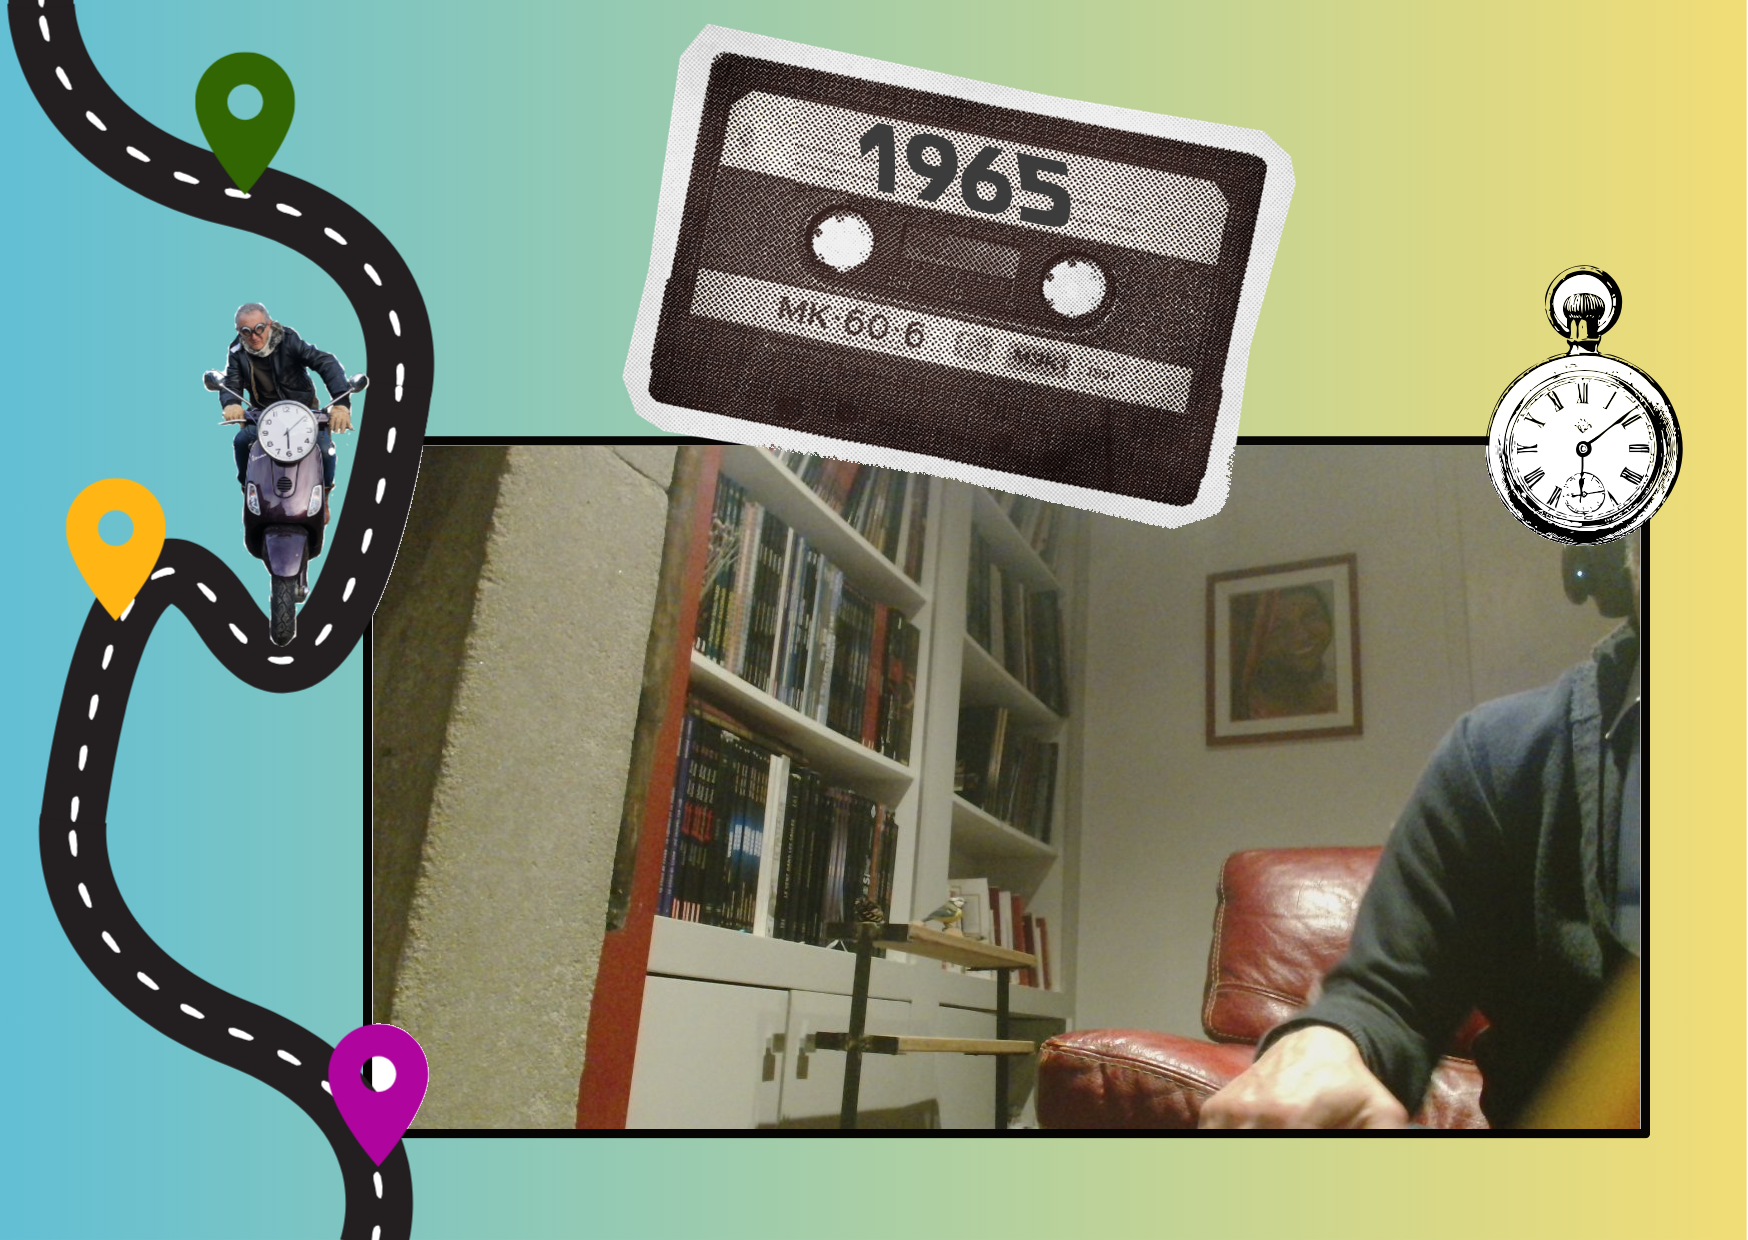
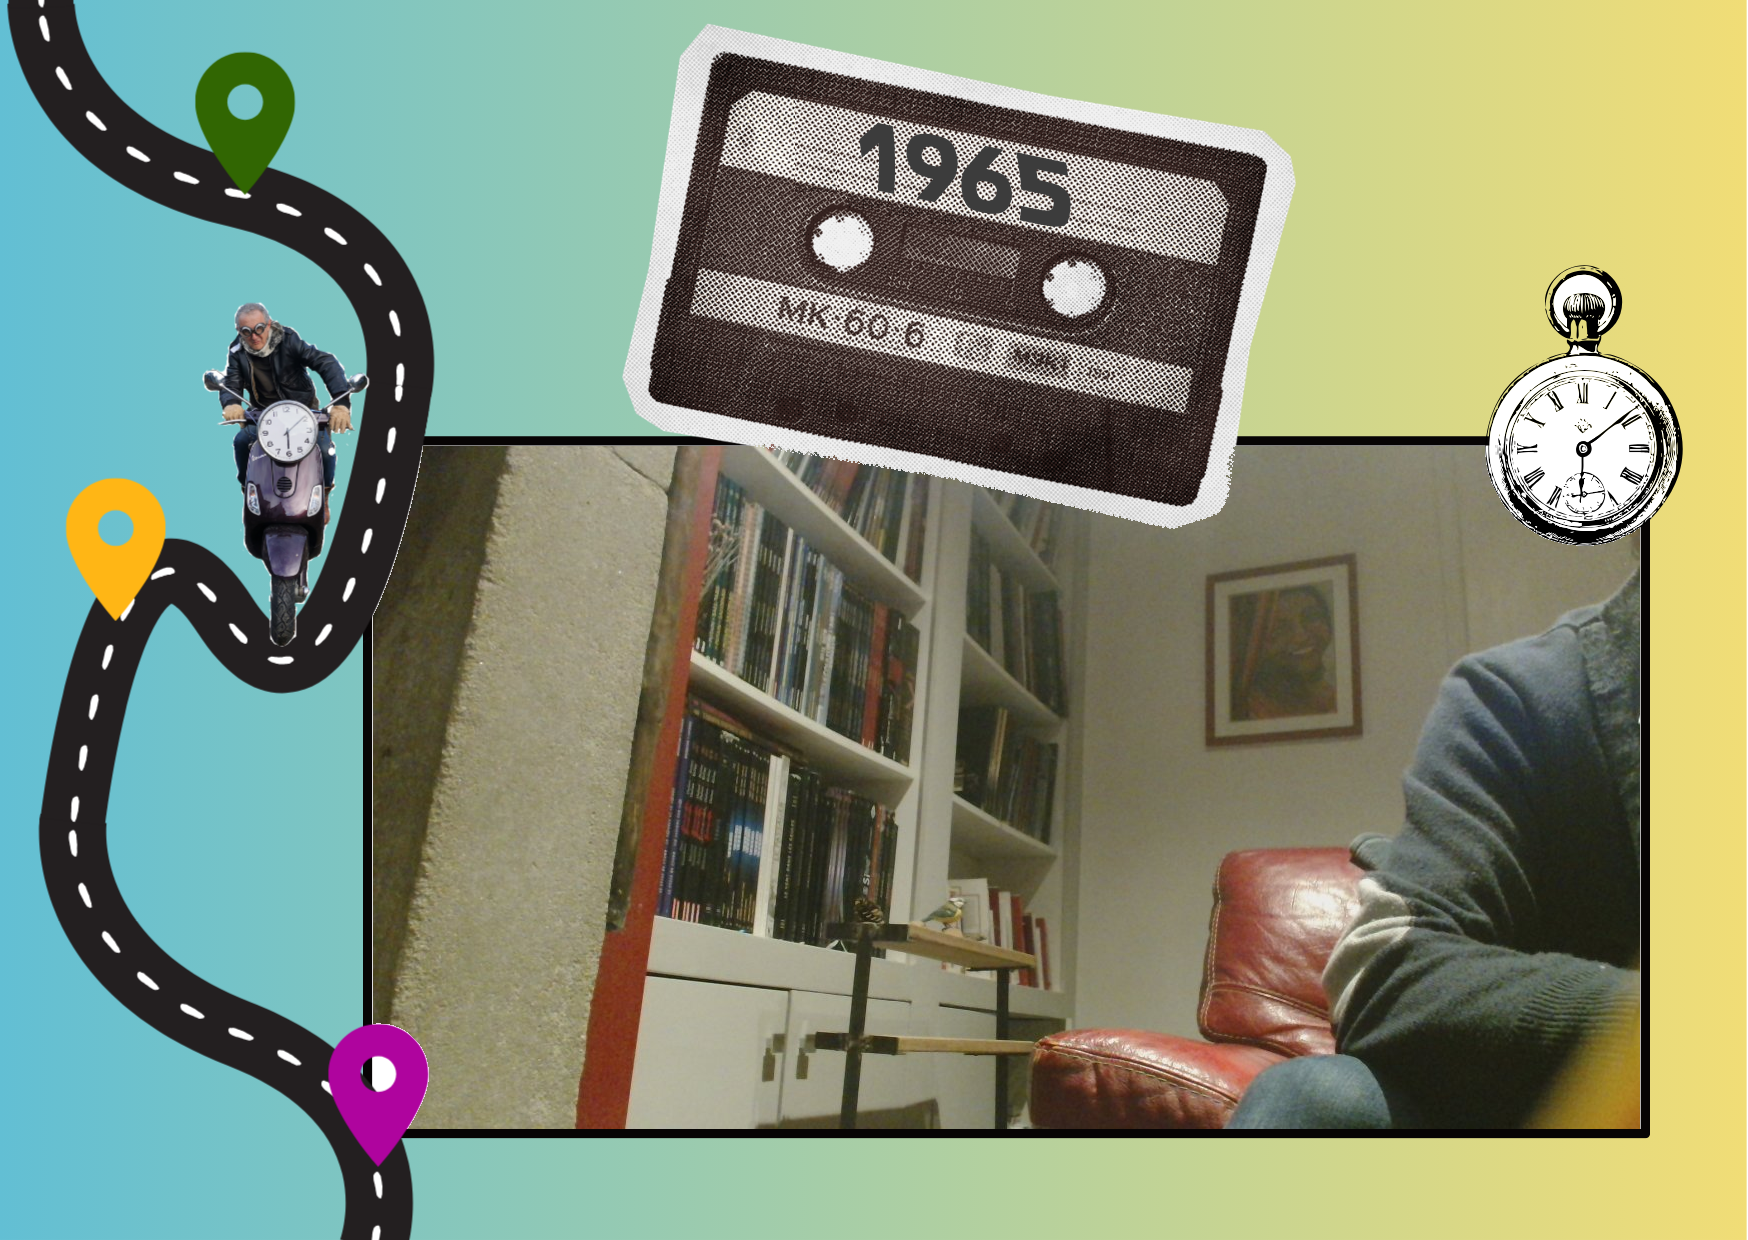
photo

Changed region(s): [[0.587, 0.429, 0.9577, 0.9194]]

diff --git a/main.py b/main.py
@@ -152,11 +152,29 @@ actionQuiz=[[0,0,0,0,-1,None,False,"QUIZ de Garde 1.jpg",False,None, None, "Appu
             [2,0,2,2,5,None,False,"masque.jpg",False,None, None, None],  # seq 3 - reponse OK
             [3,1,2,2,5,None,False,"masque.jpg",False,None, None, None],  # seq 4 - reponse KO
             [4,0,2,2,-1,None,False,"score.jpg",False,None, None, None],  # seq 5 - score
-            [0,0,0,0,-1,None,False,"vide.jpg",False,None, None, "Fin du quiz"],  # seq 6 - fin
+            [0,0,0,0,-1,None,False,"vide.jpg",False,None, None, "Fin du quiz"]]  # seq 6 - fin
 
 equipes=["1965","1976","1981","1998","2000","2011"]
 
 scoreEquipe=[0,0,0,0,0,0]
+
+def photo(noEquipe):
+    image1 = cam1.get_image()
+    pygame.image.save(image1, "./images/photo_" + equipes[noEquipe] + ".jpg")
+    # compose le résultat
+    background = Image.open('./images/fond.jpg').convert('RGBA')
+    masque = Image.open('./images/masquePhoto.png').convert('RGBA')
+    annee = Image.open('./images/' + equipes[noEquipe] + '.png').convert('RGBA')
+    photo = Image.open('./images/photo_' + equipes[noEquipe] + '.jpg')
+
+    background.paste(photo,(362,441))
+    background.alpha_composite(masque)
+    background.alpha_composite(annee,(850,120))
+    background.save("./images/impression.png")
+    background.save("./images/impression_" + equipes[noEquipe] + ".png")
+
+
+
 
 class Sequence():
     no=0
@@ -226,21 +244,7 @@ class Sequence():
         self.texte = actionSequence[self.no][9]
         # actions spécifiques
         if self.no==7 and isCamera1:  # prise des photos
-            image1 = cam1.get_image()
-            pygame.image.save(image1, "./images/photo_" + equipes[self.noEquipe] + ".jpg")
-            # compose le résultat
-            background = Image.open('./images/fond.jpg').convert('RGBA')
-            masque = Image.open('./images/masquePhoto.png').convert('RGBA')
-            annee = Image.open('./images/' + equipes[self.noEquipe] + '.png').convert('RGBA')
-            photo = Image.open('./images/photo_' + equipes[self.noEquipe] + '.jpg')
-
-            background.paste(photo,(362,441))
-            background.alpha_composite(masque)
-            background.alpha_composite(annee,(850,120))
-            background.save("./images/impression.png")
-            background.save("./images/impression_" + equipes[self.noEquipe] + ".png")
-
-
+            photo(self.noEquipe)
 
         if self.no==7 and isCamera2:  # prise des photos
             image2 = cam2.get_image()